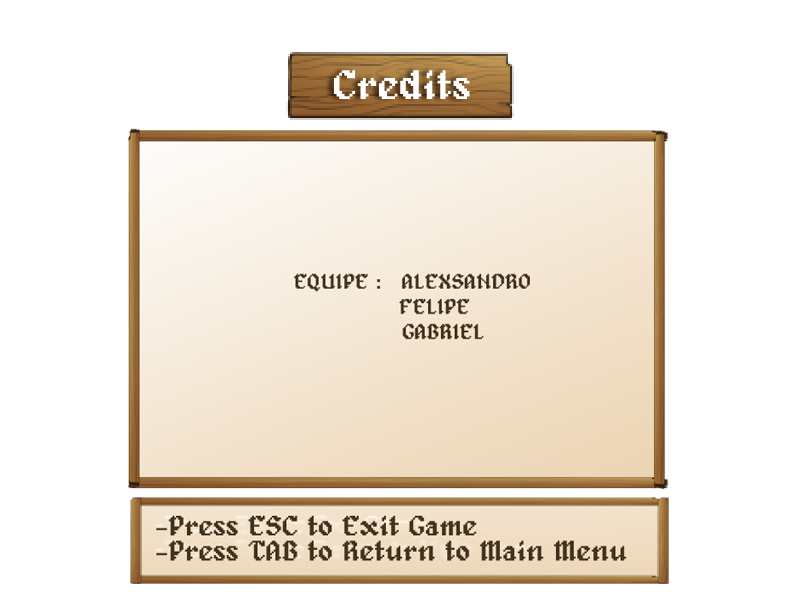
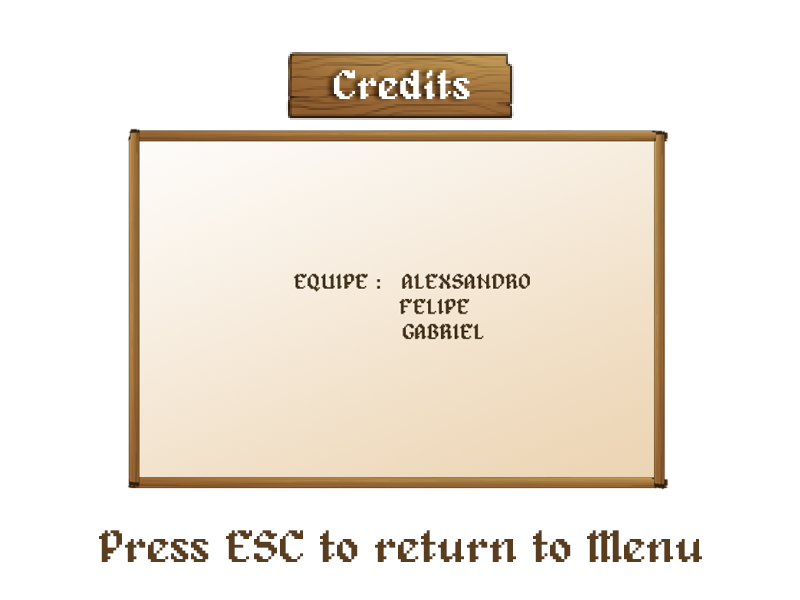
Correções Telas Estasticas

Changed region(s): [[0.125, 0.81, 0.875, 0.99]]

diff --git a/ScapegOrc/src/BotaoTeste.java b/ScapegOrc/src/BotaoTeste.java
@@ -1,0 +1,71 @@
+import java.awt.Color;
+import java.awt.Font;
+import java.awt.Graphics2D;
+
+public class BotaoTeste {
+
+	private String nome;
+	private int posX;
+	private int posY;
+	private int width;
+	private int height;
+	
+	
+	public BotaoTeste(String nome, int posX, int posY){
+		this.nome = nome;
+		this.posX = posX;
+		this.posY = posY;
+		this.width = 26 * nome.length();
+		this.height = 26 * 2;
+	}
+	
+	public void draw(Graphics2D g){
+		g.setFont(new Font("Arial", Font.BOLD, 26));
+		g.setColor(Color.black);
+		
+		g.drawString(nome, posX, posY);
+		
+	}
+
+	public String getNome() {
+		return nome;
+	}
+
+	public void setNome(String nome) {
+		this.nome = nome;
+	}
+
+	public int getPosX() {
+		return posX;
+	}
+
+	public void setPosX(int posX) {
+		this.posX = posX;
+	}
+
+	public int getPosY() {
+		return posY;
+	}
+
+	public void setPosY(int posY) {
+		this.posY = posY;
+	}
+
+	public int getWidth() {
+		return width;
+	}
+
+	public void setWidth(int width) {
+		this.width = width;
+	}
+
+	public int getHeight() {
+		return height;
+	}
+
+	public void setHeight(int height) {
+		this.height = height;
+	}
+	
+	
+}

diff --git a/ScapegOrc/src/Jogo.java b/ScapegOrc/src/Jogo.java
@@ -190,6 +190,10 @@ public class Jogo extends Canvas {
 				} else if (e.getKeyCode() == KeyEvent.VK_SPACE) {
 					isPause = false;
 					isPlaying = true;
+				}else if (e.getKeyCode() == KeyEvent.VK_END) {
+					isPause = false;
+					isPlaying = false;
+					isMenu = true;
 				}
 
 			}else if(isMenu){
@@ -198,7 +202,6 @@ public class Jogo extends Canvas {
 				}
 			}else if(isScore){
 				if (e.getKeyCode() == KeyEvent.VK_ESCAPE) {
-					System.out.println("TAB");
 					isMenu = true;
 					isPlaying = false;
 					isPause = false;
@@ -208,7 +211,6 @@ public class Jogo extends Canvas {
 				}
 			}else if(isCredits){
 				if (e.getKeyCode() == KeyEvent.VK_ESCAPE) {
-					System.out.println("TAB");
 					isMenu = true;
 					isPlaying = false;
 					isPause = false;

diff --git a/ScapegOrc/src/fase1.java b/ScapegOrc/src/fase1.java
@@ -1,0 +1,29 @@
+import java.awt.Graphics2D;
+import java.awt.Image;
+import java.io.IOException;
+import java.net.URL;
+
+import javax.imageio.ImageIO;
+
+public class fase1 extends ElementoComImagem {
+
+	
+	
+	
+	public fase1(int width, int height) {
+		super("resources/03 - gameplay.png");
+		
+		
+	}
+	
+	@Override
+	public void draw(Graphics2D g) {
+		super.draw(g);
+			
+	}
+
+	
+	
+	
+	
+}

diff --git a/ScapegOrc/src/Score.java b/ScapegOrc/src/Score.java
@@ -1,0 +1,29 @@
+import java.awt.Graphics2D;
+import java.awt.Image;
+import java.io.IOException;
+import java.net.URL;
+
+import javax.imageio.ImageIO;
+
+public class Score extends ElementoComImagem {
+
+	
+	
+	
+	public Score(int width, int height) {
+		super("resources/06 - score.png");
+		
+		
+	}
+	
+	@Override
+	public void draw(Graphics2D g) {
+		super.draw(g);
+			
+	}
+
+	
+	
+	
+	
+}
